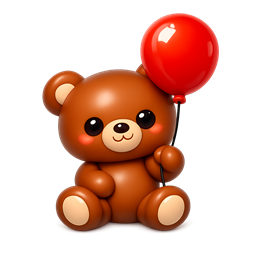
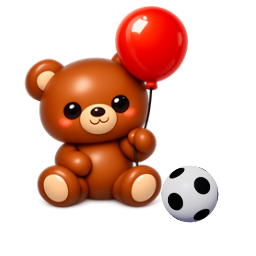
Version 2: naturligt hop, spilmusik med boing, keyboard i dansemusik, én bold ved spark

diff --git a/version2/index.html b/version2/index.html
@@ -89,6 +89,7 @@
   .music-btn { position: absolute; top: 10px; left: 10px; z-index: 2; width: 40px; height: 40px; border-radius: 50%; border: 2px solid var(--line); background: var(--tile);
     font-size: 19px; line-height: 1; padding: 0; cursor: pointer; box-shadow: 0 2px 8px rgba(58, 46, 92, .15); }
   .music-btn[hidden] { display: none; }
+  .stage.playing .music-btn { top: auto; bottom: 10px; } /* (the stars sit top left in the game) */
   .info-btn[hidden], .info-pop[hidden], .stage.playing .info-btn, .stage.playing .info-pop { display: none; }
   /* (on a computer the mouse shows it can zoom the figure - the wheel - and grabs it while turning it) */
   @media (hover: hover) and (pointer: fine) { #scene { cursor: zoom-in; } #scene:active { cursor: grabbing; } .stage.playing #scene { cursor: pointer; } }
@@ -2577,7 +2578,7 @@ function setItem(name) { if (!ITEMS.some(i => i[0] === name)) name = ''; itemNow
   if (name && !items[name]) items[name] = makeItem(name.slice(5));
   for (const [n, it] of Object.entries(items)) it.group.visible = n === itemNow; item = items[itemNow] || null; paintItem(); renderStyles(); }
 // (the colourable parts: each a material with its own colour, own, until a colour is picked)
-function paintItem() { if (item) paintItemOf(item); try { if (game.on && game.kind) gamePool().forEach(paintItemOf); } catch (e) { /* (before the game is set up) */ } }
+function paintItem() { if (item) paintItemOf(item); try { if (game.on && game.kind) gamePool().forEach(paintItemOf); if (kick.bold) paintItemOf(kick.bold); } catch (e) { /* (before the game is set up) */ } }
 function paintItemOf(it) { for (const m of it.paint) m.color.setStyle(picked.item || m.userData.own, THREE.SRGBColorSpace); if (it.repaint) it.repaint(); }
 function makeItem(kind) {
   const g = new THREE.Group(), paint = [], it = { kind, group: g, paint };
@@ -2803,7 +2804,13 @@ function lookAtBall(g, w) { const head = bone('Head'); if (!head || !kick.headFw
   head.getWorldPosition(hp); head.getWorldQuaternion(hq); g.getWorldPosition(bp); fNow.copy(kick.headFwd).applyQuaternion(hq);
   dq.setFromUnitVectors(fNow, bp.sub(hp).normalize()); const angle = 2 * Math.acos(Math.min(1, Math.abs(dq.w))), part = w * Math.min(1, 1.1 / Math.max(angle, 1e-3));
   dq.slerp(noTurn, 1 - part); head.parent.getWorldQuaternion(pq); head.quaternion.premultiply(pq.clone().invert().multiply(dq).multiply(pq)); }
-function kickBall(dt) { const b = kick.ball; if (!b) return; const k = kicks[anim], a = glbActions[anim], on = !!k && a?.isRunning(); b.group.visible = on; if (!on) return;
+function kickBall(dt) { if (!kick.ball) return; const k = kicks[anim], a = glbActions[anim], on = !!k && a?.isRunning() && !game.on;
+  // (a ball chosen under Ting is the one kicked - the user, 03-11-2026: not one in the hand and another at the foot. Bold
+  // gets a kick ball of its own, as big as the football)
+  const held = !game.on && BALL_ITEMS.includes(itemNow) ? items[itemNow] : null; if (held) { held.group.visible = !on; item = on ? null : held; }
+  if (itemNow === 'ting-bold' && !kick.bold) { kick.bold = makeItem('bold'); kick.bold.group.scale.setScalar(kick.r / .1); paintItemOf(kick.bold); scene.remove(kick.bold.group); holder.add(kick.bold.group); }
+  for (const x of [kick.ball, kick.bold]) if (x) x.group.visible = false; if (!on) return;
+  const b = itemNow === 'ting-bold' ? kick.bold : kick.ball; b.group.visible = true;
   const t = a.time, g = b.group, r = kick.r, { rest, side, contact } = k;
   if (t < contact) { // (rolling in from the kicking foot's side, slowing down, turning as it rolls)
     const s = Math.max(0, 1 - t / (contact * .85)), d = 2.2 * s * s * side; g.position.set(rest.x + d, r, rest.z); g.rotation.set(0, 0, d / r); }
@@ -2821,14 +2828,18 @@ function kickBall(dt) { const b = kick.ball; if (!b) return; const k = kicks[ani
 // (the balls: beach balls, a good deal bigger than the football - the user, 03-11-2026, first twice it, then a fifth
 // smaller. Levels, chosen in the box under the game's tabs: how the figure runs - Sjovt løb, Løb, Løb stærkt - how quick
 // the balls come and how often, each a little quicker with every star up to its top)
-const GAME = { jump: 'loebehop', trip: 'snubl', cheer: 'jubel', jumpFor: 1.05, high: .9, r: .224 };
+// (the jump: Mixamo's small jump, knees drawn up - the running jump's long stride in the air looked like hanging there,
+// the user said twice - with only a little lift of its own on top, in its own time in the air: the clip already lifts
+// the feet near a metre. Whether a ball is touched is told by where the figure's feet really are)
+const GAME = { jump: 'hop-lille', trip: 'snubl', cheer: 'jubel', extra: .25, up: .05, down: .8, r: .224 };
 // (five levels since 03-11-2026 - the user: a very easy one for the youngest, a very hard one for the eldest)
 // (air: how long a jump lasts; hit: how near the middle of the ball the feet must be to touch it. A slow ball takes long
 // to roll under the figure - it landed on it before it was through: the easy levels count the ball smaller. A longer,
 // floating jump looked made-up - the user, 03-11-2026 - so every level jumps the same natural arc again)
-const LEVELS = [['niveau-meget-let', 'Meget let', { run: 'loeb', speed: .9, top: 1.3, gap: 3.8, air: 1.05, hit: .1 }], ['niveau-let', 'Let', { run: 'loeb', speed: 1.2, top: 1.8, gap: 3.2, air: 1.05, hit: .14 }],
-  ['niveau-mellem', 'Mellem', { run: 'loeb-b', speed: 1.6, top: 2.5, gap: 2.5, air: 1.05, hit: .22 }], ['niveau-svaer', 'Svær', { run: 'loeb-a', speed: 2.2, top: 3.2, gap: 1.8, air: 1.05, hit: .22 }],
-  ['niveau-meget-svaer', 'Meget svær', { run: 'loeb-a', speed: 2.8, top: 3.8, gap: 1.5, air: 1.05, hit: .22 }]];
+// (clear: how high the feet must be over a ball; the easy levels let a lower, earlier or later jump do)
+const LEVELS = [['niveau-meget-let', 'Meget let', { run: 'loeb', speed: .9, top: 1.3, gap: 3.8, hit: .06, clear: .2 }], ['niveau-let', 'Let', { run: 'loeb', speed: 1.2, top: 1.8, gap: 3.2, hit: .08, clear: .24 }],
+  ['niveau-mellem', 'Mellem', { run: 'loeb-b', speed: 1.6, top: 2.5, gap: 2.5, hit: .12, clear: .28 }], ['niveau-svaer', 'Svær', { run: 'loeb-a', speed: 2.2, top: 3.2, gap: 1.8, hit: .16, clear: .33 }],
+  ['niveau-meget-svaer', 'Meget svær', { run: 'loeb-a', speed: 2.8, top: 3.8, gap: 1.5, hit: .2, clear: .36 }]];
 // Three ways to play (the user, 03-11-2026): from the side, the balls rolling in from the right; from behind, the figure
 // running into the picture with its back to the one playing and the balls coming from the far ground; from the front,
 // the figure running towards the one playing and the balls coming in at the bottom of the picture, rolling away to it.
@@ -2884,8 +2895,10 @@ function stopGame(again) { if (!game.on) return; game.on = false; for (const b o
 function runAnim(id, once) { const a = glbActions[id]; if (!a) return; anim = id; Object.values(glbActions).forEach(x => x !== a && x.fadeOut(.15));
   a.reset(); a.setLoop(once ? THREE.LoopOnce : THREE.LoopRepeat, Infinity); a.clampWhenFinished = !!once; a.fadeIn(.15).play(); }
 function jump() { if (!game.audio) try { game.audio = new (window.AudioContext || window.webkitAudioContext)(); } catch (e) { game.audio = null; } game.audio?.resume?.();
-  if (!game.on || game.jumpT >= 0 || game.busy || game.cheer || !glbActions[GAME.jump]) return; game.jumpT = 0; game.hint = 0; runAnim(GAME.jump, true); }
-function startCheer() { game.cheerWait = false; game.cheer = 2.4; runAnim(GAME.cheer); }
+  if (!game.on || game.jumpT >= 0 || game.busy || game.cheer || !glbActions[GAME.jump]) return; game.jumpT = 0; game.hint = 0; runAnim(GAME.jump, true); sfx('boing'); }
+// (the balls on their way are taken away under the confetti when it cheers - one rolled over the figure while it stood
+// cheering, the user said - and the next comes only once it runs again)
+function startCheer() { game.cheerWait = false; game.cheer = 2.2; runAnim(GAME.cheer); for (const b of game.balls) b.group.visible = false; game.balls = []; }
 function showStars(pop) { starsEl.textContent = '⭐ ' + game.stars; if (pop) { starsEl.classList.remove('pop'); void starsEl.offsetWidth; starsEl.classList.add('pop'); } }
 function gameTick(dt) { confettiTick(dt); if (!game.on || !glb) return; const r = GAME.r, M = MODES[game.mode], L = levelNow();
   // (the figure facing the balls - turned to look out at the one playing when it cheers, and back, smoothly)
@@ -2897,21 +2910,24 @@ function gameTick(dt) { confettiTick(dt); if (!game.on || !glb) return; const r 
   // (the jump: up and down in a smooth arc over the ball, the run again when it lands)
   // (the fifth star mostly comes in the air: the cheer then waits for the landing - before, the landing put the run back
   // in the middle of the cheer, the figure running on the spot facing out, no balls, as if waiting for a tap)
-  let lift = 0; if (game.jumpT >= 0) { game.jumpT += dt; const s = game.jumpT / L.air; if (s >= 1) { game.jumpT = -1; if (game.cheerWait) startCheer(); else runAnim(L.run); } else lift = GAME.high * 4 * s * (1 - s); }
-  glb.position.y += lift;
+  const air = glbActions[GAME.jump]?.getClip().duration || .9;
+  if (game.jumpT >= 0) { game.jumpT += dt; if (game.jumpT >= air) { game.jumpT = -1; if (game.cheerWait) startCheer(); else runAnim(L.run); }
+    else { const s = (game.jumpT - GAME.up) / (GAME.down - GAME.up); if (s > 0 && s < 1) glb.position.y += GAME.extra * Math.sin(Math.PI * s); } }
+  // (how high the feet are now - the lower of the two toes, over the ground)
+  glb.updateMatrixWorld(true); let lift = 9; for (const n of ['LeftToeBase', 'RightToeBase']) { const b = bone(n); if (b) lift = Math.min(lift, holder.worldToLocal(b.getWorldPosition(lv)).y); }
   if (game.busy && (game.busy -= dt) <= 0) { game.busy = 0; runAnim(L.run); }
   if (game.cheer && (game.cheer -= dt) <= 0) { game.cheer = 0; runAnim(L.run); game.next = Math.min(game.next, .6); }
   // (a new ball now and then - never while it cheers - a little sooner and quicker with more stars)
   const speed = Math.min(L.top, L.speed + game.stars * .04) * M.k, from = M.from(halfW, cx, cz) - (game.mode === 'side' ? M.x : 0);
   if (!game.cheer && (game.next -= dt) <= 0) { const b = gamePool().find(p => !p.group.visible); if (b) { // (never so close that the figure is still in the air from the last ball - every ball can be cleared)
-    game.next = Math.max(L.air + .4, L.gap + Math.random() * 1.4 - Math.min(L.gap * .3, game.stars * .03));
+    game.next = Math.max(air + .5, L.gap + Math.random() * 1.4 - Math.min(L.gap * .3, game.stars * .03));
     Object.assign(b, { u: from, v: -speed, vy: 0, hit: false, done: false }); b.group.position.y = r; M.put(b.group.position, b.u); b.group.visible = true; game.balls.push(b); } }
   for (const b of [...game.balls]) { const p = b.group.position; b.u += b.v * dt; M.roll(b.group, -b.v * dt / r);
     if (b.hit) { b.vy -= 9.8 * dt; p.y += b.vy * dt; if (p.y < r) { p.y = r; b.vy *= -.45; } }
     M.put(p, b.u);
     // (it clears the ball when the feet are over it as it passes - forgiving: the ball counts a little smaller than it is)
     // (no stumbling over a ball while it cheers - it cannot jump then: such a ball just rolls by)
-    if (!b.done && Math.abs(b.u) < L.hit && lift < .34 && !game.cheer) { b.hit = b.done = true; b.v = 1.4; b.vy = 2.6; game.jumpT = -1; game.busy = 1.1; runAnim(GAME.trip, true); }
+    if (!b.done && Math.abs(b.u) < L.hit && lift < L.clear && !game.cheer) { b.hit = b.done = true; b.v = 1.4; b.vy = 2.6; game.jumpT = -1; game.busy = 1.1; runAnim(GAME.trip, true); sfx('bonk'); }
     if (!b.done && b.u < -.32) { b.done = true; if (game.cheer) continue; game.stars++; showStars(true);
       if (game.stars % 5 === 0) { celebrate(); if (game.jumpT >= 0) game.cheerWait = true; else startCheer(); } }
     if (b.u < M.gone || b.u > from + .5) { b.group.visible = false; game.balls.splice(game.balls.indexOf(b), 1); } } }
@@ -2921,7 +2937,7 @@ document.getElementById('gameExit').onclick = () => stopGame();
 // (no menu from a long press anywhere but in the name box)
 document.querySelector('.main').addEventListener('contextmenu', e => { if (e.target.tagName !== 'INPUT') e.preventDefault(); });
 // (the game's tab starts it and shows its levels in the box, as a movement's tab shows its kinds)
-document.querySelectorAll('[data-game]').forEach(b => b.onclick = () => { partNow = 'game-hop'; showSwatches(); stopGame(true); startGame(b.dataset.game); });
+document.querySelectorAll('[data-game]').forEach(b => b.onclick = () => { soundOut()?.resume(); partNow = 'game-hop'; showSwatches(); stopGame(true); startGame(b.dataset.game); });
 function gameList() { try { return [LEVELS, game.level, setLevel]; } catch (e) { return null; } }
 // Every fifth star: confetti shot up from two cannons at the bottom corners of the picture, with little stars among it,
 // and a short ta-da (only once the child has tapped: a page may not sound before that)
@@ -2954,26 +2970,44 @@ const CHORDS = [[48, 52, 55], [45, 48, 52], [41, 45, 48], [43, 47, 50]], TUNE = 
 let musicOn = (() => { try { return localStorage.getItem('minimig3d.musik') !== 'fra'; } catch (e) { return true; } })();
 const music = { id: null, last: 0, out: null, noise: null }, musicBtn = document.getElementById('musicBtn');
 const isDance = id => MOVES.dans.some(m => m[0] === id), hz = m => 440 * 2 ** ((m - 69) / 12);
-function musicPlaying() { return musicOn && isDance(anim) && !game.on; }
-function musicTick() { musicBtn.hidden = !isDance(anim) || game.on; musicBtn.textContent = musicOn ? '🎵' : '🔇';
+function musicPlaying() { return musicOn && (isDance(anim) || game.on); }
+function musicTick() { musicBtn.hidden = !isDance(anim) && !game.on; musicBtn.textContent = musicOn ? '🎵' : '🔇';
+  // (the games: a steady beat of their own, 112 to the minute, by the sound's own clock)
+  if (game.on) { const ctx = game.audio; if (!musicOn || !ctx || ctx.state !== 'running') { music.at = 0; return; } const stepT = 60 / 112 / 4;
+    if (!music.at || music.at < ctx.currentTime - .2) { music.at = ctx.currentTime + .05; music.n = 0; }
+    while (music.at < ctx.currentTime + .12) { playStep(ctx, music.at, music.n % 64, stepT, BEATS.pop, music.n); music.at += stepT; music.n++; } return; }
+  music.at = 0;
   const a = glbActions[anim], ctx = game.audio; if (!musicPlaying() || !a?.isRunning() || !ctx || ctx.state !== 'running') { music.id = null; return; }
   const dur = a.getClip().duration, steps = (DANCE_BEATS[anim] || 8) * 4, stepT = dur / steps, now = a.time;
   if (music.id !== anim) { music.id = anim; music.last = Math.ceil(now / stepT) - 1; }
   // (the steps due in the next moment, by the dance's clock, round past its end)
   for (let k = music.last + 1, n = 0; n < 16; k++, n++) { const kk = ((k % steps) + steps) % steps; let wait = kk * stepT - now; if (wait < -dur / 2) wait += dur;
-    if (wait > .12) break; music.last = k; if (wait >= -.03) playStep(ctx, ctx.currentTime + Math.max(0, wait), kk, stepT, BEATS[DANCE_STYLE[anim] || 'pop']); } }
+    if (wait > .12) break; music.last = k; if (wait >= -.03) playStep(ctx, ctx.currentTime + Math.max(0, wait), kk, stepT, BEATS[DANCE_STYLE[anim] || 'pop'], k); } }
 function musicOut(ctx) { if (!music.out) { music.out = ctx.createGain(); music.out.gain.value = .4; music.out.connect(ctx.destination); } return music.out; }
 function tone(ctx, t, f, len, type, vol, to) { const o = ctx.createOscillator(), g = ctx.createGain(); o.type = type; o.frequency.setValueAtTime(f, t); if (to) o.frequency.exponentialRampToValueAtTime(to, t + len);
   g.gain.setValueAtTime(vol, t); g.gain.exponentialRampToValueAtTime(.0008, t + len); o.connect(g).connect(musicOut(ctx)); o.start(t); o.stop(t + len + .02); }
 function hiss(ctx, t, len, from, vol) { if (!music.noise) { const b = music.noise = ctx.createBuffer(1, ctx.sampleRate * .5, ctx.sampleRate), d = b.getChannelData(0); for (let i = 0; i < d.length; i++) d[i] = Math.random() * 2 - 1; }
   const s = ctx.createBufferSource(), f = ctx.createBiquadFilter(), g = ctx.createGain(); s.buffer = music.noise; f.type = 'highpass'; f.frequency.value = from;
   g.gain.setValueAtTime(vol, t); g.gain.exponentialRampToValueAtTime(.0008, t + len); s.connect(f).connect(g).connect(musicOut(ctx)); s.start(t); s.stop(t + len + .02); }
-function playStep(ctx, t, k, stepT, B) { const s = k % 16, chord = CHORDS[Math.floor(k / 16) % 4];
+// (k: the step in the tune - its chords; n: the steps counted since it began, for the keyboard, which comes in now and
+// then: chords on the off-beats every second bar, a little run up the chord every fourth - the user, 03-11-2026)
+function playStep(ctx, t, k, stepT, B, n = k) { const s = k % 16, chord = CHORDS[Math.floor(k / 16) % 4], bar = Math.floor(n / 16);
   if (B.k[s] === '1') tone(ctx, t, 150, .16, 'sine', .7, 45);
   if (B.s[s] === '1') { hiss(ctx, t, .14, 1200, .28); tone(ctx, t, 190, .08, 'triangle', .1); }
   if (B.h[s] === '1') hiss(ctx, t, .035, 7000, .08);
   if (s % 8 === 0 || (s === 10 && B === BEATS.hiphop)) tone(ctx, t, hz(chord[0] - 12), stepT * 3.5, 'triangle', .26);
-  if (s % 2 === 0 && TUNE[(s / 2) % 8] === '1') tone(ctx, t, hz(chord[(s / 2) % 3] + 12), stepT * 1.6, 'triangle', .07); }
+  if (s % 2 === 0 && TUNE[(s / 2) % 8] === '1') tone(ctx, t, hz(chord[(s / 2) % 3] + 12), stepT * 1.6, 'triangle', .07);
+  if (bar % 2 === 1 && s % 4 === 2) for (const m of chord) keys(ctx, t, hz(m + 12), stepT * 1.4, .045);
+  if (bar % 4 === 3 && s % 2 === 0 && s >= 8) keys(ctx, t, hz(chord[(s / 2) % 3] + 24), stepT * 1.8, .05); }
+// (a keyboard: a square and a triangle together, a little dulled, quick to sound and fade)
+function keys(ctx, t, f, len, vol) { const lp = ctx.createBiquadFilter(), g = ctx.createGain(); lp.type = 'lowpass'; lp.frequency.value = 2400;
+  g.gain.setValueAtTime(0, t); g.gain.linearRampToValueAtTime(vol, t + .01); g.gain.exponentialRampToValueAtTime(.0008, t + len); lp.connect(g).connect(musicOut(ctx));
+  for (const [type, d] of [['square', 0], ['triangle', 3]]) { const o = ctx.createOscillator(); o.type = type; o.frequency.value = f; o.detune.value = d; o.connect(lp); o.start(t); o.stop(t + len + .02); } }
+// (the game's sounds: a boing up as it jumps, a wobbly boing down as it stumbles over a ball - always, music or not)
+function sfx(kind) { const ctx = game.audio; if (!ctx || ctx.state !== 'running') return; const t = ctx.currentTime, o = ctx.createOscillator(), g = ctx.createGain(), lfo = ctx.createOscillator(), wob = ctx.createGain();
+  o.type = 'sine'; lfo.frequency.value = kind === 'boing' ? 22 : 14; wob.gain.value = kind === 'boing' ? 25 : 60; lfo.connect(wob).connect(o.frequency);
+  const [from, to, len] = kind === 'boing' ? [180, 620, .28] : [520, 110, .5]; o.frequency.setValueAtTime(from, t); o.frequency.exponentialRampToValueAtTime(to, t + len);
+  g.gain.setValueAtTime(.28, t); g.gain.exponentialRampToValueAtTime(.0008, t + len); o.connect(g).connect(ctx.destination); for (const x of [o, lfo]) { x.start(t); x.stop(t + len + .02); } }
 musicBtn.onclick = () => { musicOn = !musicOn; try { localStorage.setItem('minimig3d.musik', musicOn ? 'til' : 'fra'); } catch (e) {} if (musicOn) soundOut()?.resume(); };
 // (once the figure is in, the hint goes into the i in the corner - on a touch screen and on a computer alike)
 const infoBtn = document.getElementById('infoBtn'), infoPop = document.getElementById('infoPop'); let infoTimer = 0;
